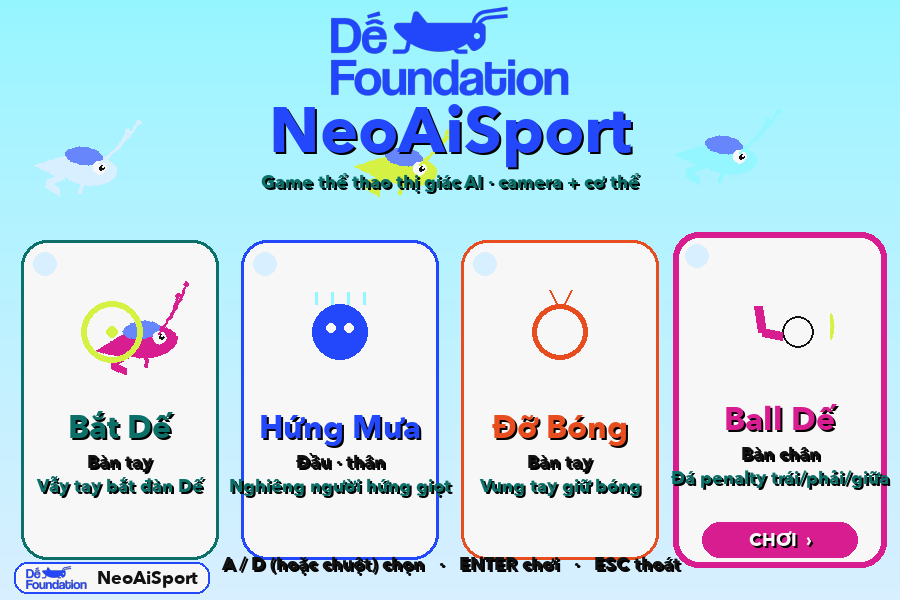
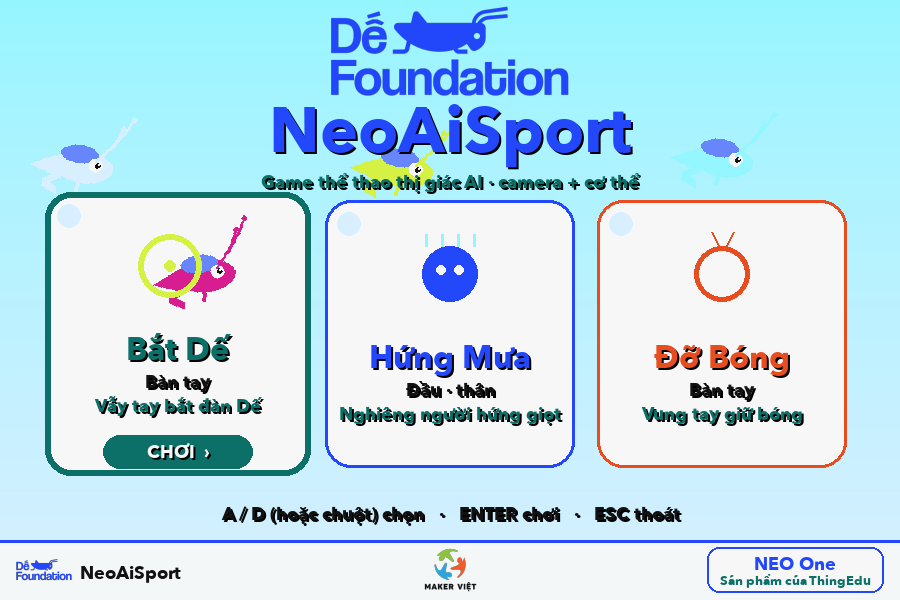
Hub: badge 'NEO One — Sản phẩm của ThingEdu' + cập nhật ảnh README

diff --git a/src/neoaisport/hub.py b/src/neoaisport/hub.py
@@ -163,8 +163,8 @@ class Hub:
 
     def _neo_badge(self, xr, yc):
         s = self.screen
-        t1 = self.f_sm.render("NEO ONE", True, C.BLUE_ELECTRIC)
-        t2 = self.f_xs.render("powered by ThingEdu", True, C.GREEN_CRICKET)
+        t1 = self.f_sm.render("NEO One", True, C.BLUE_ELECTRIC)
+        t2 = self.f_xs.render("Sản phẩm của ThingEdu", True, C.GREEN_CRICKET)
         w = max(t1.get_width(), t2.get_width()) + 26
         pill = pygame.Rect(xr - w, yc - 23, w, 46)
         round_rect(s, pill, C.WHITE, C.BLUE_ELECTRIC, 2, 12)